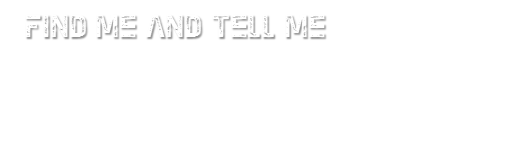
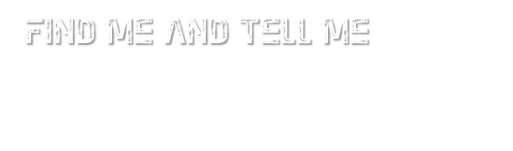
robot page

Changed region(s): [[0.0312, 0.1111, 0.7485, 0.3056]]

diff --git a/index.html b/index.html
@@ -7,10 +7,6 @@
 			href="styles/style.css">
 	</head>
 	<body >
-		<a class="languagebg" href="bg.html"><img src="images/.png">
-		</a>
-		<a class="languageen" href="en.html"><img src="images/.png">
-		</a>
 
 		<h1 class="about-me">
 			<img src="images/head text.png">
@@ -18,6 +14,10 @@
 		<h2 class="call-to-action">
 			<img src="images/tell.png">
 		</h2>
+
+		<div id="robot">
+			<img src="images/robotme.png">
+		</div>
 
 		<div id="footer">
 			
@@ -37,7 +37,7 @@
 				<img src="images/li.png">
 			</a>
 			
-			<a class="icon"href="https://plus.google.com/104738058890161713994/posts">
+			<a class="icon"href="https://github.com/CactusMactus/cactusmactus.github.io">
 				<img src="images/gh.png">
 			</a>
 		</div>

diff --git a/styles/style.css b/styles/style.css
@@ -30,7 +30,7 @@ body {
 .about-me {
 	position: fixed;
 	top: 40px;
-	left: 55px;
+	left: -100px;
 	width: 20px;
 	height: 20px;
 	font-family: cursive;
@@ -38,17 +38,23 @@ body {
 
 .call-to-action {
 	position:fixed;
-	bottom: -275px;
-	left: 73px;
+	bottom: -230px;
+	left: 200px;
 	width: 300px;
 	height: 400px;
 	font-family: cursive;
 }
 
+#robot {
+	position: absolute;
+	bottom: 25px;
+	right: 165px;
+}
+
 #footer {
 	position: absolute;
-	bottom: 20px;
-	left: 90px;
+	bottom: 40px;
+	left: 190px;
 }
 
 #footer .icon {
@@ -56,6 +62,6 @@ body {
 }
 
 #footer .icon img {
-	width: 60px;
-	height: 60px;
+	width: 80px;
+	height: 80px;
 }
